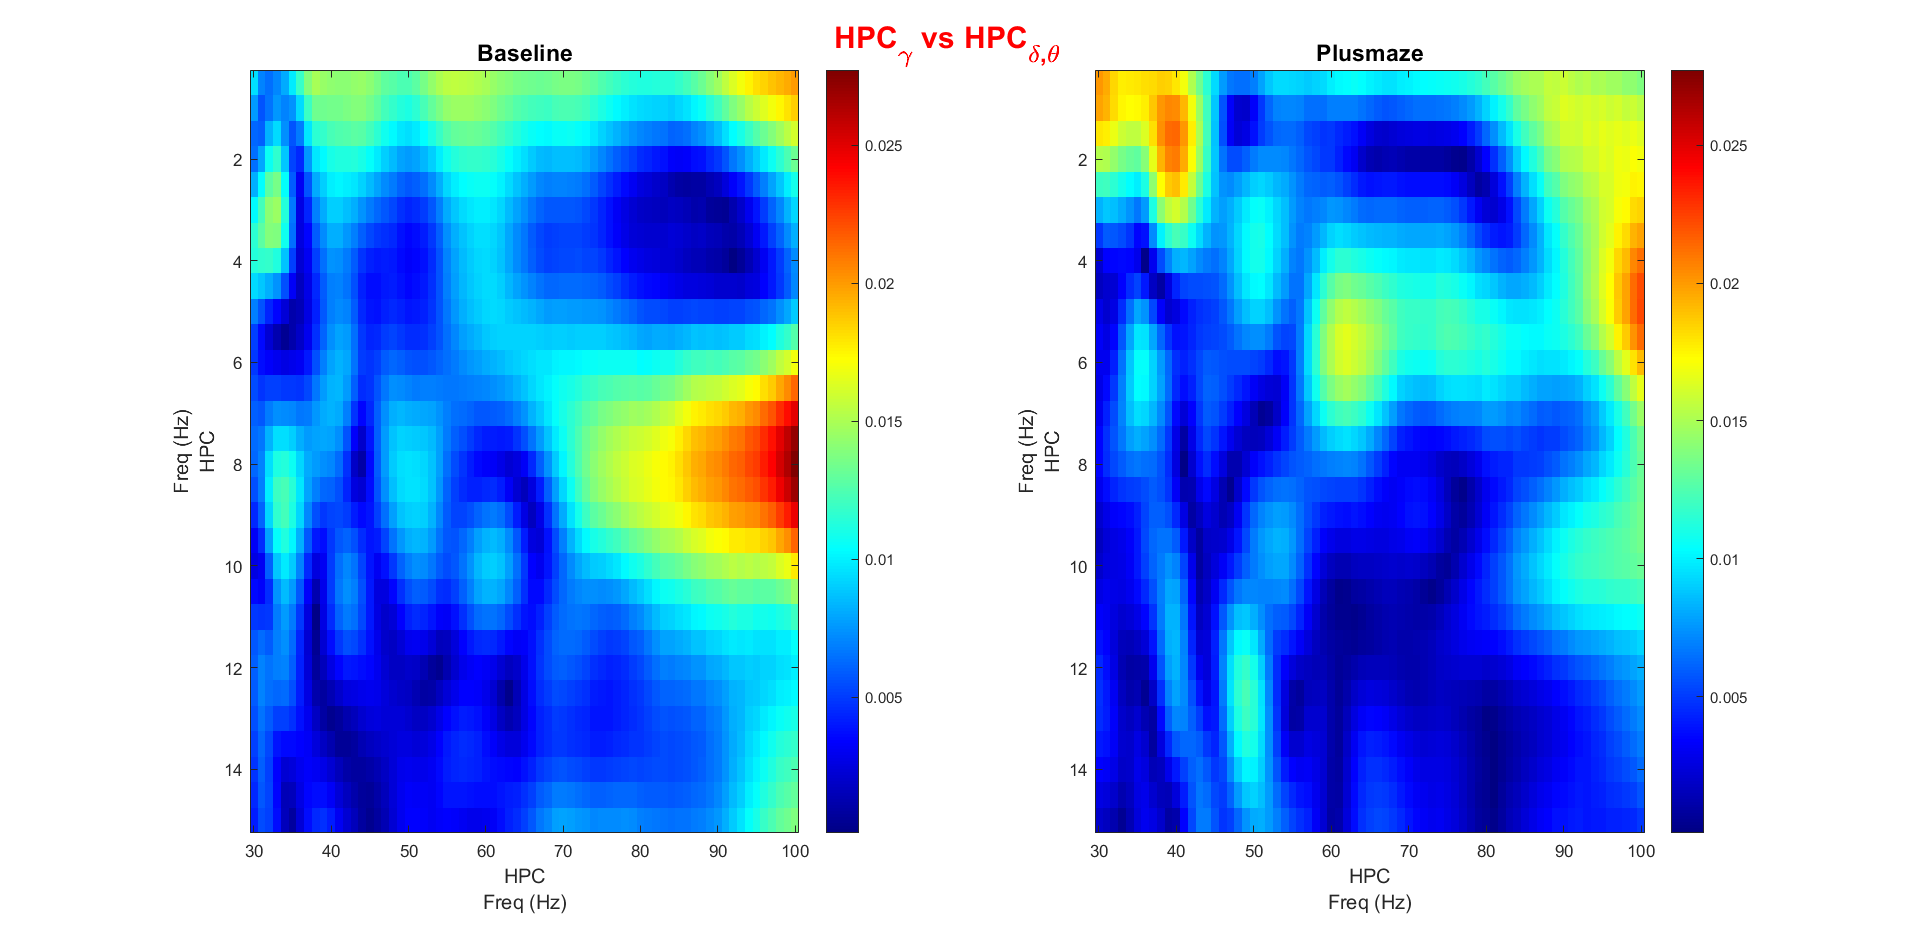
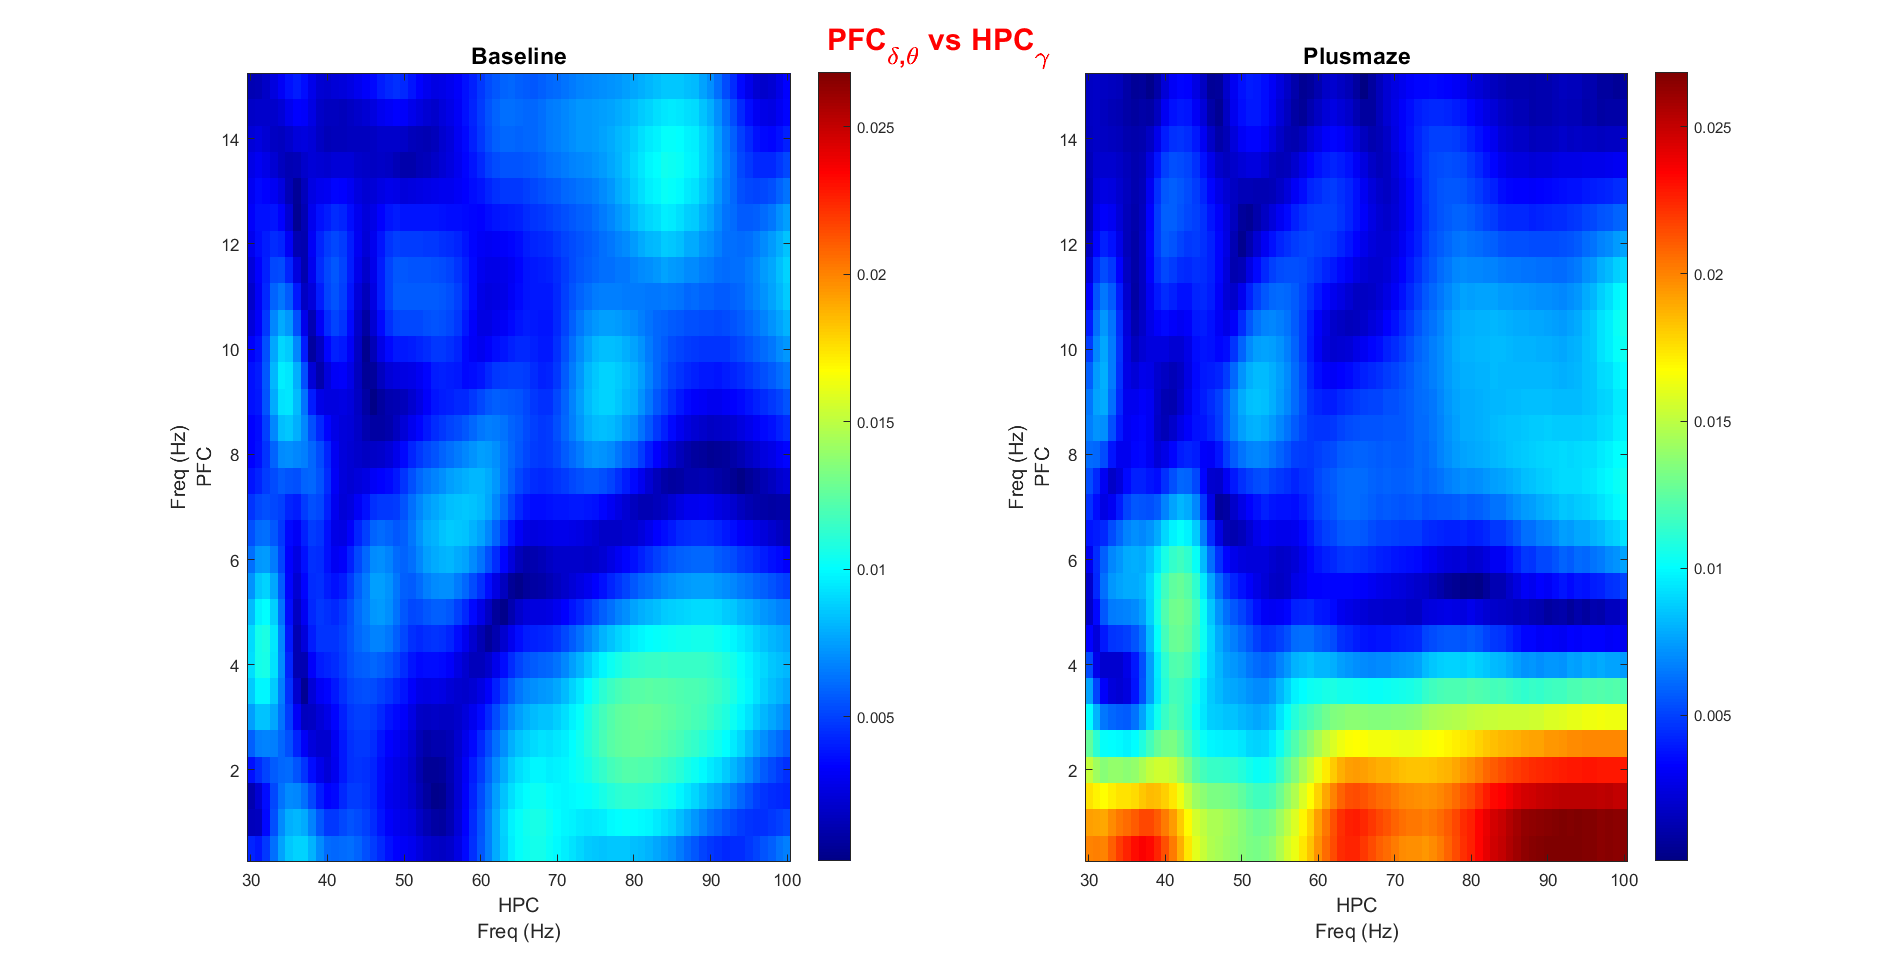
sidexside

diff --git a/Cross_Frequency/cfc_side.m b/Cross_Frequency/cfc_side.m
@@ -90,6 +90,7 @@ a=max([a1 a2]);
 allscreen()
 subplot(1,2,1)
 J=imagesc(30:1:100,0.5:0.5:15,e1);colormap(jet(256));
+set(gca,'YDir','normal')
 c=colorbar();
 % c.Limits(2)=0.0001;
 c.Limits(2)=a;
@@ -105,6 +106,7 @@ y.FontSize=12;
 %%
 subplot(1,2,2)
 J=imagesc(30:1:100,0.5:0.5:15,e2);
+set(gca,'YDir','normal')
 c=colorbar();
 % c.Limits(2)=0.0001;
 c.Limits(2)=a;
@@ -118,7 +120,7 @@ x=xlabel({label1{2*n2},'Freq (Hz)'})
 x.FontSize=12;
 y.FontSize=12;
 %%
-HI=mtit(strcat(label1{2*n1},'_\gamma','{ }','vs','{ }',label1{2*n2},'_\delta','_,','_\theta'));
+HI=mtit(strcat(label1{2*n1},'_\delta','_,','_\theta','{ }','vs','{ }',label1{2*n2},'_\gamma'));
  HI.th.FontSize=18;
 HI.th.Color=[1 0 0]
 %%
